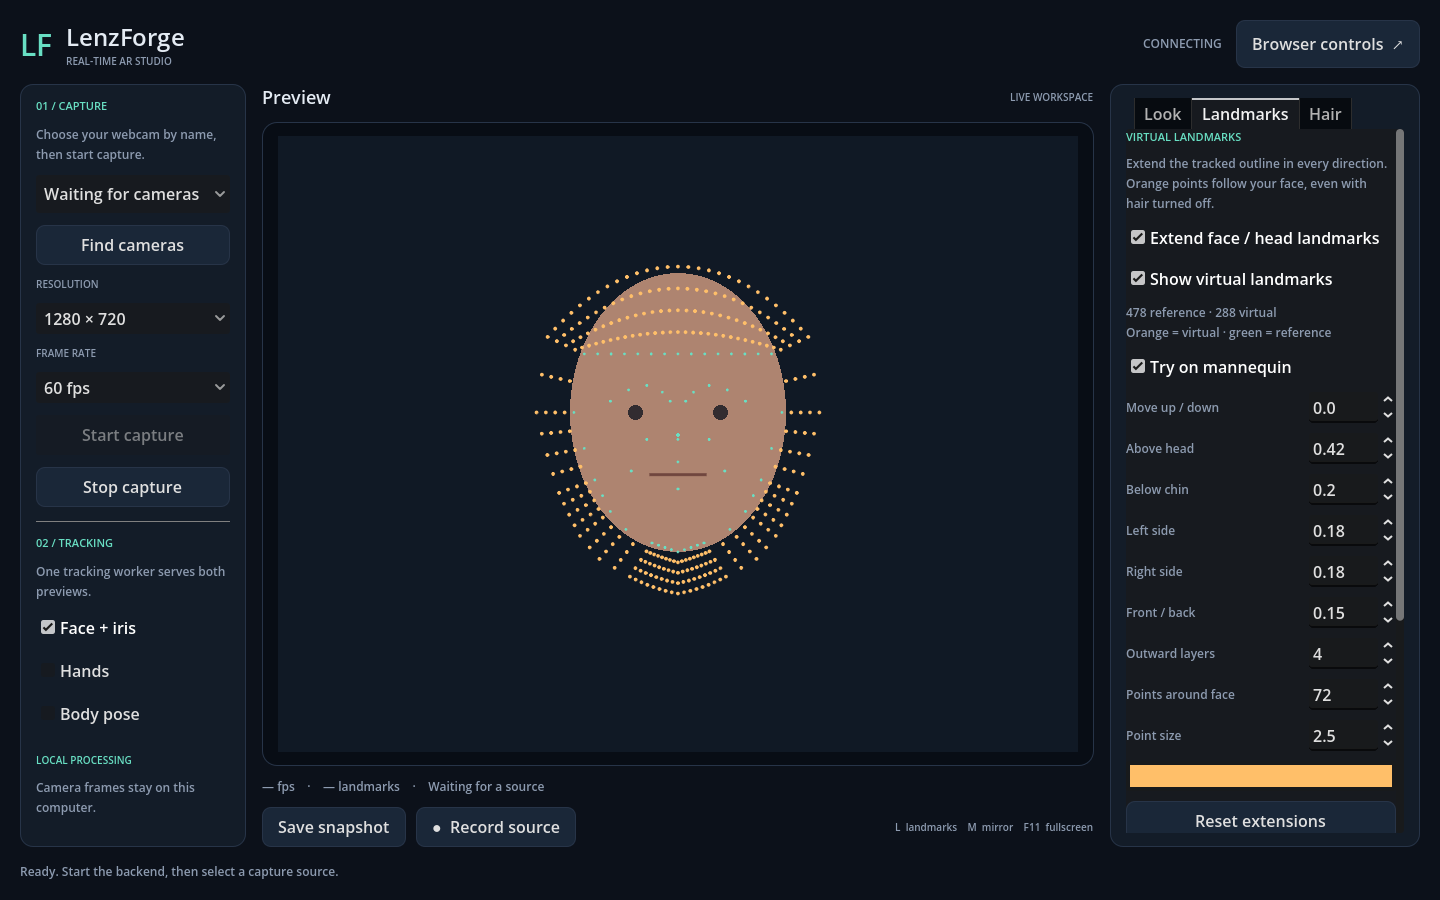
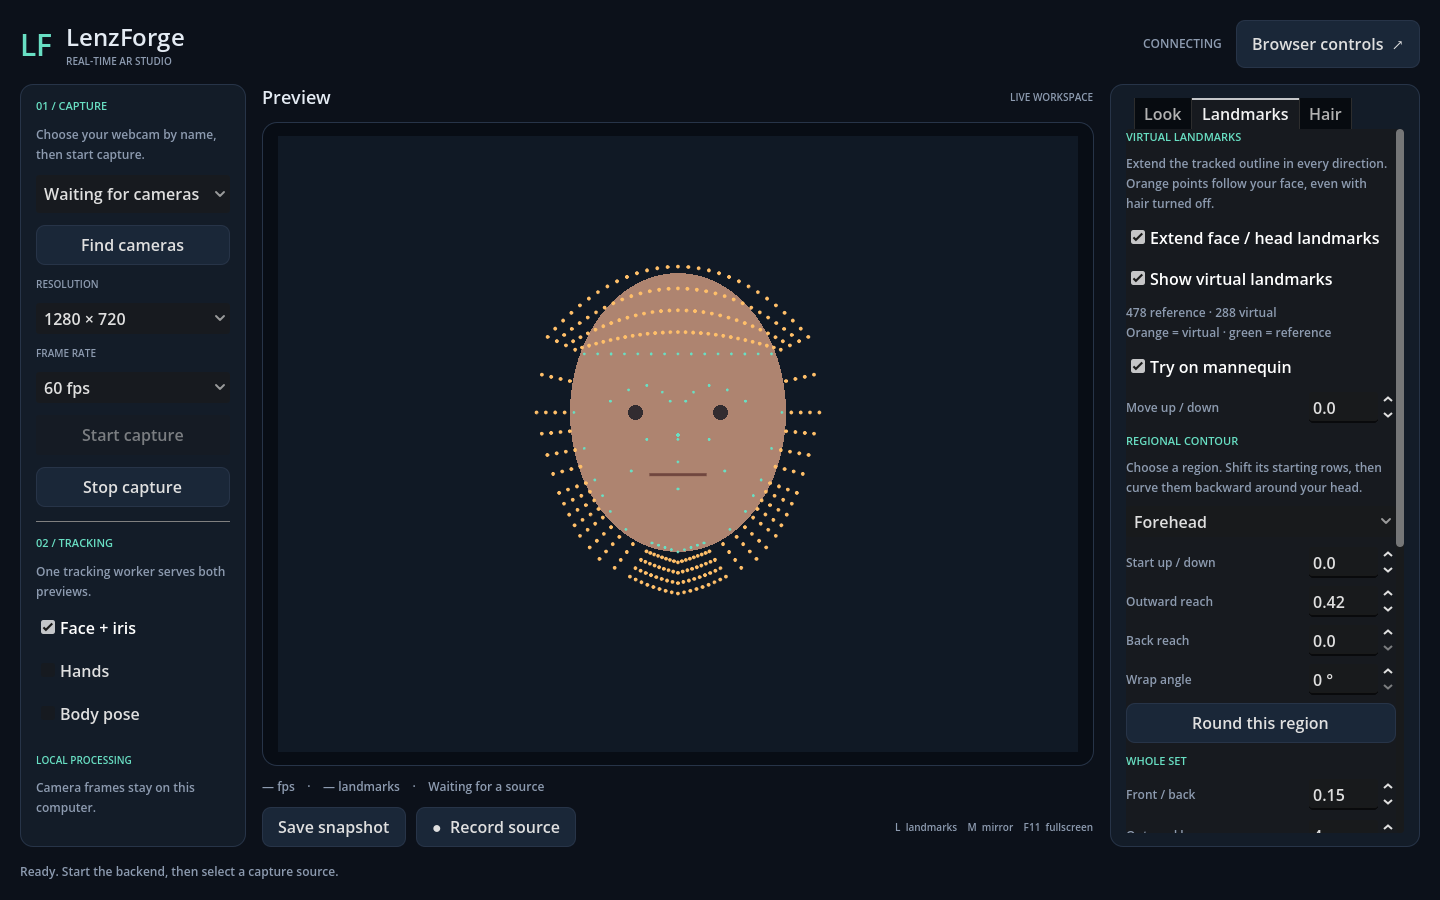
Shape virtual landmarks around forehead sides and chin

diff --git a/docs/LANDMARKS.md b/docs/LANDMARKS.md
@@ -11,21 +11,37 @@ Start the camera with **Face + iris** enabled, or select **Try on mannequin** in
 | Extend face / head landmarks | Enable or disable the independent virtual reference data. |
 | Show virtual landmarks | Show or hide the orange dots while retaining active reference data. |
 | Move up / down | Move the whole virtual set vertically: negative goes up, positive goes down, and zero restores the original placement. Follows head orientation and preserves the shape and density of the rings. |
-| Above head | Extend beyond the tracked forehead toward the top of the head. |
-| Below chin | Extend the lower outline down below the chin. |
-| Left side / Right side | Independently extend the temples, cheeks, and jaw outward. Left/right refer to the unmirrored camera image and follow head rotation. |
+| Regional contour | Choose **Forehead**, **Left side**, **Right side**, or **Chin** to shape its rows independently. |
+| Start up / down | Move the selected region's starting rows vertically. Positive lowers them, negative raises them. |
+| Start in / out (sides) | Shift the selected side's starting rows inward toward the face with a negative value, or outward with a positive value. |
+| Outward reach | Height above the forehead, distance below the chin, or width outside the selected side. Left/right refer to the unmirrored image. |
+| Back reach | Additional distance behind the selected region. Adds to the whole-set **Front / back** value. |
+| Wrap angle | **0°** extends straight; **90°** curves backward along a quarter ellipse; angles above **90°** turn inward after reaching the crown or side. Maximum **180°** returns toward the starting height/width behind the head. |
+| Round this region | Apply a starting contour with **110°** wrap and **0.5** back reach (**0.3** for the chin). Preserves starting position, outward reach, and whole-set movement. |
 | Front / back | Negative values extend toward the front; positive values extend behind the face. Turn or tilt the head to see the depth offset in the preview. |
 | Outward layers | Number of progressively farther rings, from 1 to 12. |
 | Points around face | Samples per ring, from 36 to 144. |
 | Point size / color | Appearance of virtual dots, separate from measured points and hair roots. |
 | Reset extensions | Restore the visible, enabled default fit. |
 
-Reach values use face widths. For example, **Below chin = 0.2** places the outer lower row one fifth of the tracked face width below the chin. The intermediate rings fill the distance from the measured outline to the outer extension. Default density is **72 × 4 = 288** points; the maximum is **144 × 12 = 1,728**. Changing density does not add hair strands or tracking work in the backend.
+Reach and position values use face widths. For example, **Chin → Outward reach = 0.2** with zero wrap extends the outer lower row one fifth of the face width below the chin. The intermediate rows sample the contour from its starting position toward the back. Default density is **72 × 4 = 288** points; the maximum is **144 × 12 = 1,728**. Changing density does not add hair strands or tracking work in the backend.
 
 Use **Move up / down = -0.1** to lift every virtual point by one tenth of a face width, or **0.1** to lower them. This offset saves with the extension settings and follows head turns and tilts. **Reset extensions** returns it to zero.
+
+## Fit a contour around your head
+
+The **Move up / down** control still moves the whole set. Use **Regional contour** for local fitting:
+
+1. Choose **Forehead**, set **Start up / down** to **0.1** to lower its starting rows, and click **Round this region**. Adjust **Outward reach** to fit the crown and **Back reach** to carry the rows farther behind it. A wrap angle above 90° lets the rows turn downward again behind the crown.
+2. Choose either side. Try **Start in / out = -0.08** to tuck its starting rows toward the face, then **Round this region** to curve toward the back of the head. **Start up / down** adjusts the height of that side around the ear.
+3. Choose **Chin**. A negative **Start up / down** raises its starting rows; **Outward reach**, **Back reach**, and **Wrap angle** fit a curve underneath and behind the chin.
+
+Turn or tilt your head to judge backward reach: depth projects onto the preview during rotation. Neighboring regions blend through the temples and jaw. These are adjustable estimated contours; no head scan or automatic skull fitting is performed. Existing saved settings retain their previous shape until a regional contour is adjusted. All controls save independently of hairstyles.
+
+![Forehead contour controls, with regional starting height, backward reach, and wrap angle](images/landmark-contours.png)
 
 The lower part of this tab contains the measured-landmark visibility, size, and color controls. **L** toggles measured dots only. General virtual points, measured points, and hair visibility are independent. Extension settings persist across normal viewer restarts, separately from saved hairstyles. Existing hair-root fitting remains under **Hair → Root surface**.
 
 The outline follows MediaPipe's [face-oval connections](https://github.com/google-ai-edge/mediapipe/blob/master/mediapipe/tasks/python/vision/face_landmarker.py). Each virtual point interpolates between adjacent tracked outline landmarks, then adds an offset in a head-relative frame. Existing relative depth drives yaw and pitch; the same frame follows roll, translation, and scale. These are estimated references, not newly measured anatomy, and the preview has no full-head depth occlusion. Invalid or lost tracking clears the virtual data instead of leaving floating points behind.
 
-For other overlays, `viewer/tracking/face_extensions.gd` exposes `ids` and `points` separately from the measured 478-point array. Positions are in source-image pixels before mirroring/letterboxing. IDs use `extension:<ring>:<column>` and remain stable during movement and extent changes; density changes alter the sampling layout. Topology and offsets are rebuilt only when fitting changes. Each tracking result projects packed arrays once; visible dots use one instanced batch. No hair simulation or additional model is needed.
+For other overlays, `viewer/tracking/face_extensions.gd` exposes `ids` and `points` separately from the measured 478-point array. Positions are in source-image pixels before mirroring/letterboxing. IDs use `extension:<ring>:<column>` and remain stable during movement and extent changes; density changes alter the sampling layout. Topology, elliptical contour profiles, and blended offsets are rebuilt only when fitting changes. Each tracking result projects the same packed arrays once; visible dots use one instanced batch. No hair simulation or additional model is needed.

diff --git a/docs/ARCHITECTURE.md b/docs/ARCHITECTURE.md
@@ -61,7 +61,7 @@ The video reader copies directly into packed upload planes, reuses image/texture
 
 ## Hair and beard simulation and editing
 
-`tracking/face_extensions.gd` supplies general virtual landmarks, separate from measured landmark indices and the grooming document. It caches outline-edge bindings and face-local offsets in packed arrays, then projects 288 points by default (maximum 1,728) from each fresh tracking result. A standalone `extension_layer.gd` draws one marker batch and clears stale data after 250 ms. The **Landmarks** tab controls directional reach, depth, density, color, and visibility; settings persist under their own section in `studio.cfg`. Hair visibility and model presets do not affect these points. Hidden markers retain reference data; disabling extensions skips projection. `tracking/face_frame.gd` shares the existing relative-depth projection math with hair fitting, without another inference worker.
+`tracking/face_extensions.gd` supplies general virtual landmarks, separate from measured landmark indices and the grooming document. It caches outline-edge bindings and face-local offsets in packed arrays, then projects 288 points by default (maximum 1,728) from each fresh tracking result. A standalone `extension_layer.gd` draws one marker batch and clears stale data after 250 ms. The **Landmarks** tab controls whole-set movement plus independent forehead, side, and chin contours. Regional starting heights, side insets, backward reach, and elliptical wrap profiles blend through the temples and jaw. Profiles and blended offsets are cached when fitting changes, preserving the per-update projection path. Zero regional values preserve older fits. The tab also controls depth, density, color, and visibility; settings persist under their own section in `studio.cfg`. Hair visibility and model presets do not affect these points. Hidden markers retain reference data; disabling extensions skips projection. `tracking/face_frame.gd` shares the existing relative-depth projection math with hair fitting, without another inference worker.
 
 `beard/virtual_head.gd` builds a separate bounded hair-root grid over scalp, chin, and both face sides. Bindings and bilinear cell weights are computed only when fitting settings change. Each tracked update projects the grid from existing forehead/cheek/chin positions and relative Z, then interpolates hair roots within its cells. `studio.gd` preserves Z from the existing LMK1 payload; the IPC format and inference pipeline are unchanged. Default/max point counts are 380/1,628, independent of the 2,048-hair limit. The **Hair → Root surface** page exposes an optional marker batch for the fitted root grid, separately from magenta root markers. Existing looks keep their original attachment until virtual fitting is enabled. The result is an estimated head frame projected into the current 2D physics/rendering system; it does not provide a depth buffer or far-side occlusion.
 

diff --git a/README.md b/README.md
@@ -51,7 +51,7 @@ The desktop viewer expects port 5000. `Start-Backend.ps1 -Port 5001` is availabl
 
 **Recordings keep the original camera source**, without preview looks, mirror, or overlays. Virtual-camera output is not connected end to end; the earlier GOD1 writer is retained as a foundation. Background segmentation and face-specific effects remain experimental and are withheld from the new browser effect picker.
 
-Open the desktop **Landmarks** tab for general face/head extensions. Orange points are enabled by default: 72 points around the outline × 4 outward layers = 288 virtual landmarks, adjustable up to 1,728. Fit **Above head**, **Below chin**, **Left side**, **Right side**, and **Front / back**. These references use the existing tracked face and work with hair disabled; their settings persist independently of hairstyles. Enable **Try on mannequin** to preview without a camera, or start capture with **Face + iris**. See the [landmark guide](docs/LANDMARKS.md).
+Open the desktop **Landmarks** tab for general face/head extensions. Orange points are enabled by default: 72 points around the outline × 4 outward layers = 288 virtual landmarks, adjustable up to 1,728. Under **Regional contour**, choose **Forehead**, either side, or **Chin** to set its starting position, outward reach, backward reach, and wrap angle. **Round this region** curves its rows around the head. **Move up / down** still moves the whole set. These references use the existing tracked face and work with hair disabled; their settings persist independently of hairstyles. Enable **Try on mannequin** to preview without a camera, or start capture with **Face + iris**. See the [landmark guide](docs/LANDMARKS.md).
 
 Open **Hair** to edit beard, roots, mustache, eyebrows, scalp hair, physics, individual strands, and the library. **Root surface → Extend root coverage** fits the separate surface used for hair attachment, preserving existing saved looks. Virtual geometry is an estimate projected into the 2D preview, with no full head occlusion. Restart the viewer to load these controls. A native rebuild is only needed when updating an older native extension.
 

diff --git a/docs/PERFORMANCE.md b/docs/PERFORMANCE.md
@@ -122,6 +122,16 @@ Reproduce without a camera or backend:
 
 The report is written to `artifacts/landmark-extensions-performance.json`. `extensions_probe.gd` checks directional extents, depth/rotation, invalid input, bounded density, independent visibility, and stale tracking. `extensions_render.gd` exercises the actual tab, orange pixels with hair off, mirror alignment, live depth forwarding, and settings persistence at both 1440×900 and 1024×720.
 
+Regional contour shaping is also cached when settings change. A follow-up comparison used 110° wrap on the forehead, both sides, and chin, with a lowered forehead start and inset side starts. The per-tracking-result projection/upload path is unchanged:
+
+| Contour configuration | Mean CPU/update | p95 CPU/update |
+| --- | --- | --- |
+| 288 straight points | 0.226 ms | 0.282 ms |
+| 288 rounded points | 0.218 ms | 0.282 ms |
+| 1,728 rounded points | 0.926 ms | 1.107 ms |
+
+The small default-count difference is ordinary run variation, not a speedup claim. The same synthetic fixture, sample counts, hardware, and exclusions apply. [Raw contour report](performance/landmark-contours.json). Add `-- contours` to the command above to reproduce it; the output is `artifacts/landmark-contours-performance.json`. Regional tests also check independent starting positions, inward side offsets, backward progression, inward wrapping past 90°, pose projection, saved contours, and older settings.
+
 ## Reproduce
 
 Close other camera applications, build with `Setup.ps1 -SkipInstall`, then run:
